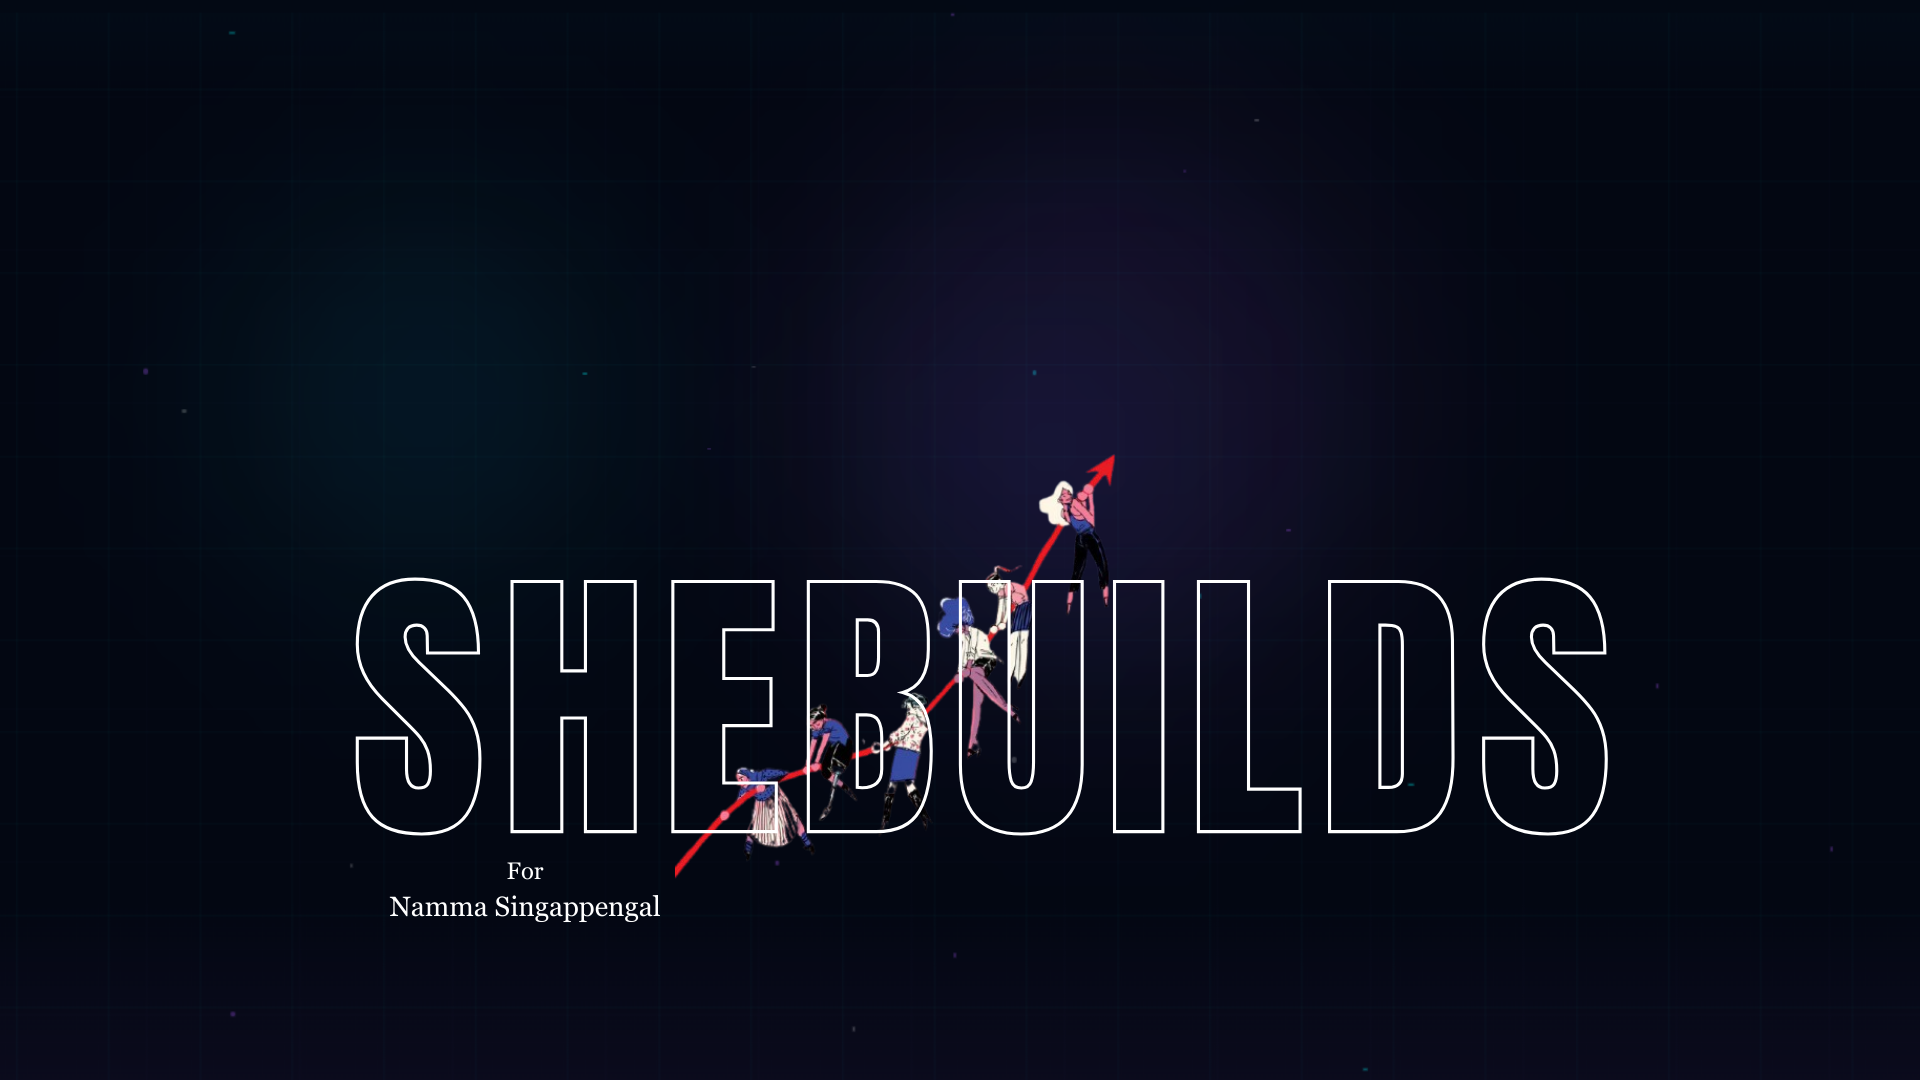
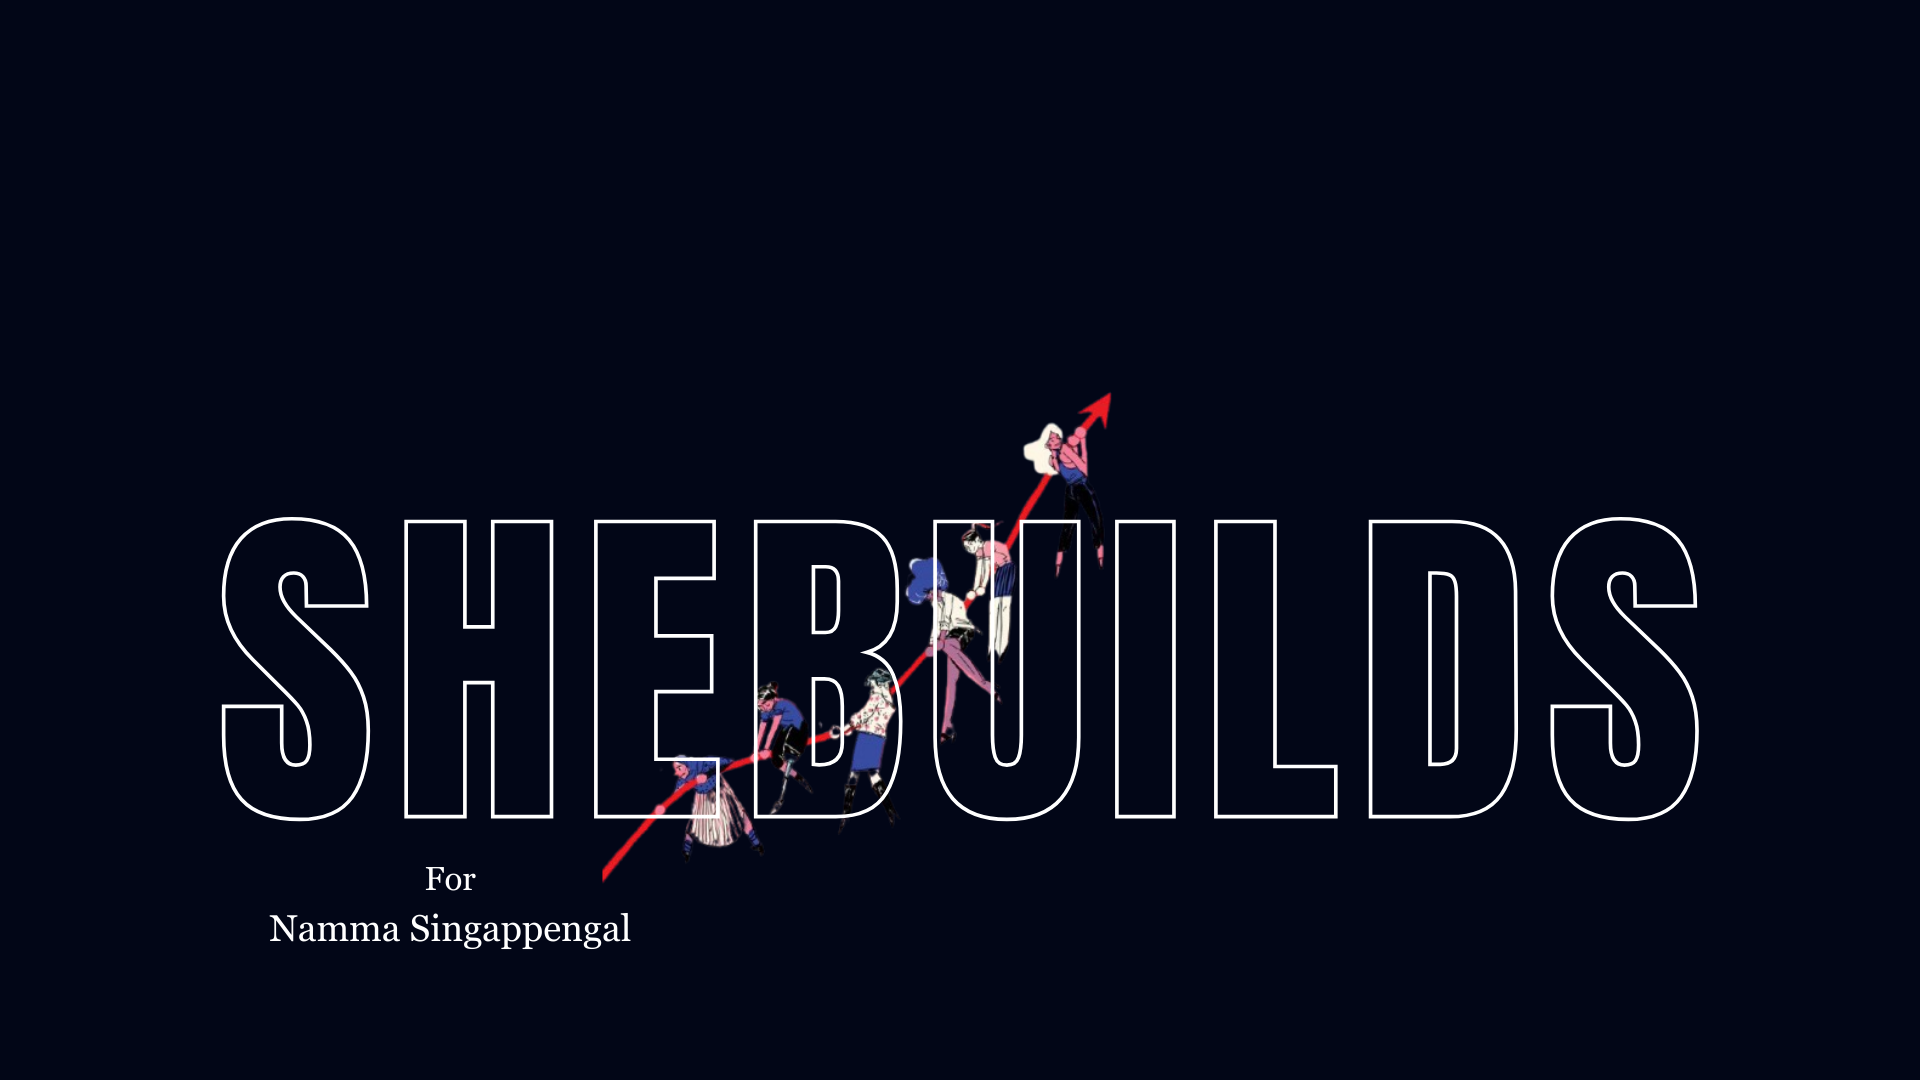
changes 3

diff --git a/shebuild/src/components/Projectslider.css b/shebuild/src/components/Projectslider.css
@@ -5,6 +5,7 @@
   background-position: center;
   background-repeat: no-repeat;
   margin-top: 70px;
+  margin-bottom: 90px;
   position: relative;
 }
 
@@ -75,11 +76,11 @@
   width: 100%;
   height: 100%;
   transform: rotateY(calc(360deg / var(--quantity) * (var(--position) - 1)))
-    translateZ(600px);
+    translateZ(580px);
 }
 
 .item img {
-  width: 400px;
+  width: 450px;
   height: 100%;
   object-fit: contain;
 }
@@ -101,7 +102,8 @@
   .slider-section {
     background: transparent !important;
     margin-top: 40px;
-   margin-bottom: -270px;
+
+    margin-bottom: -270px;
   }
 
   .carousel-center-text {
@@ -109,12 +111,16 @@
   }
 
   .mobile-title {
-    font-size: 130px;
+    font-size: 140px;
     -webkit-text-stroke: 2px white;
   }
 
   .banner {
     height: 52vh;
+    background-image: url("/mb-tablet-bg.png") !important;
+    background-repeat: no-repeat !important;
+    background-position: 50% 40% !important;
+    background-size: 32% !important;
   }
 
   .slider {
@@ -137,7 +143,8 @@
    =========================== */
 @media (max-width: 640px) {
   .mobile-title {
-    font-size: 58px;
+    font-size: 60px;
+    transform:scaleY(1.7);
     -webkit-text-stroke: 1.5px white;
   }
 
@@ -151,6 +158,8 @@
 }
   .banner {
     height: 45vh;
+    background-image: url("/mb-tablet-bg.png");
+     background-size: cover;
   }
 
   .slider {
@@ -169,6 +178,7 @@
     height: 150px;
   }
   .slider-section{
-     margin-bottom: -100px;
+     margin-bottom: -230px;
+
   }
 }
